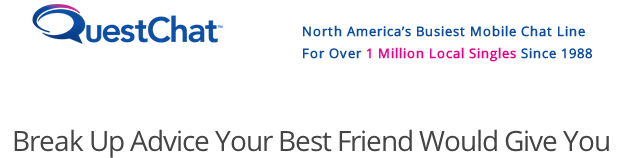
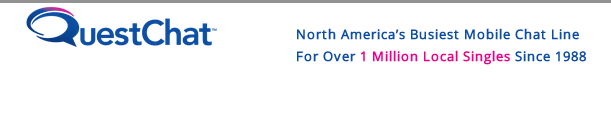
image changes

diff --git a/_posts/2014-03-08-questblog.md b/_posts/2014-03-08-questblog.md
@@ -7,7 +7,9 @@ date: 2014-03-08
 ![My helpful screenshot]({{ site.url }}/images/QuestChat.png)
 
 
-> *QuestChat Blog* 
+*QuestChat Blog* 
+
+> Break Up Advice Your Best Friend Would Give You
 
 > No matter how it ends, there’s almost nothing worse than getting your heart broken. But the good news? Those wretched feelings don’t last forever! One day you’re going to stop creeping his Facebook, showering daily will make it back into your routine, and getting over it won’t be a phrase you just say, you’ll finally be able to do it. What you need is some break up advice from your BFF.
 
